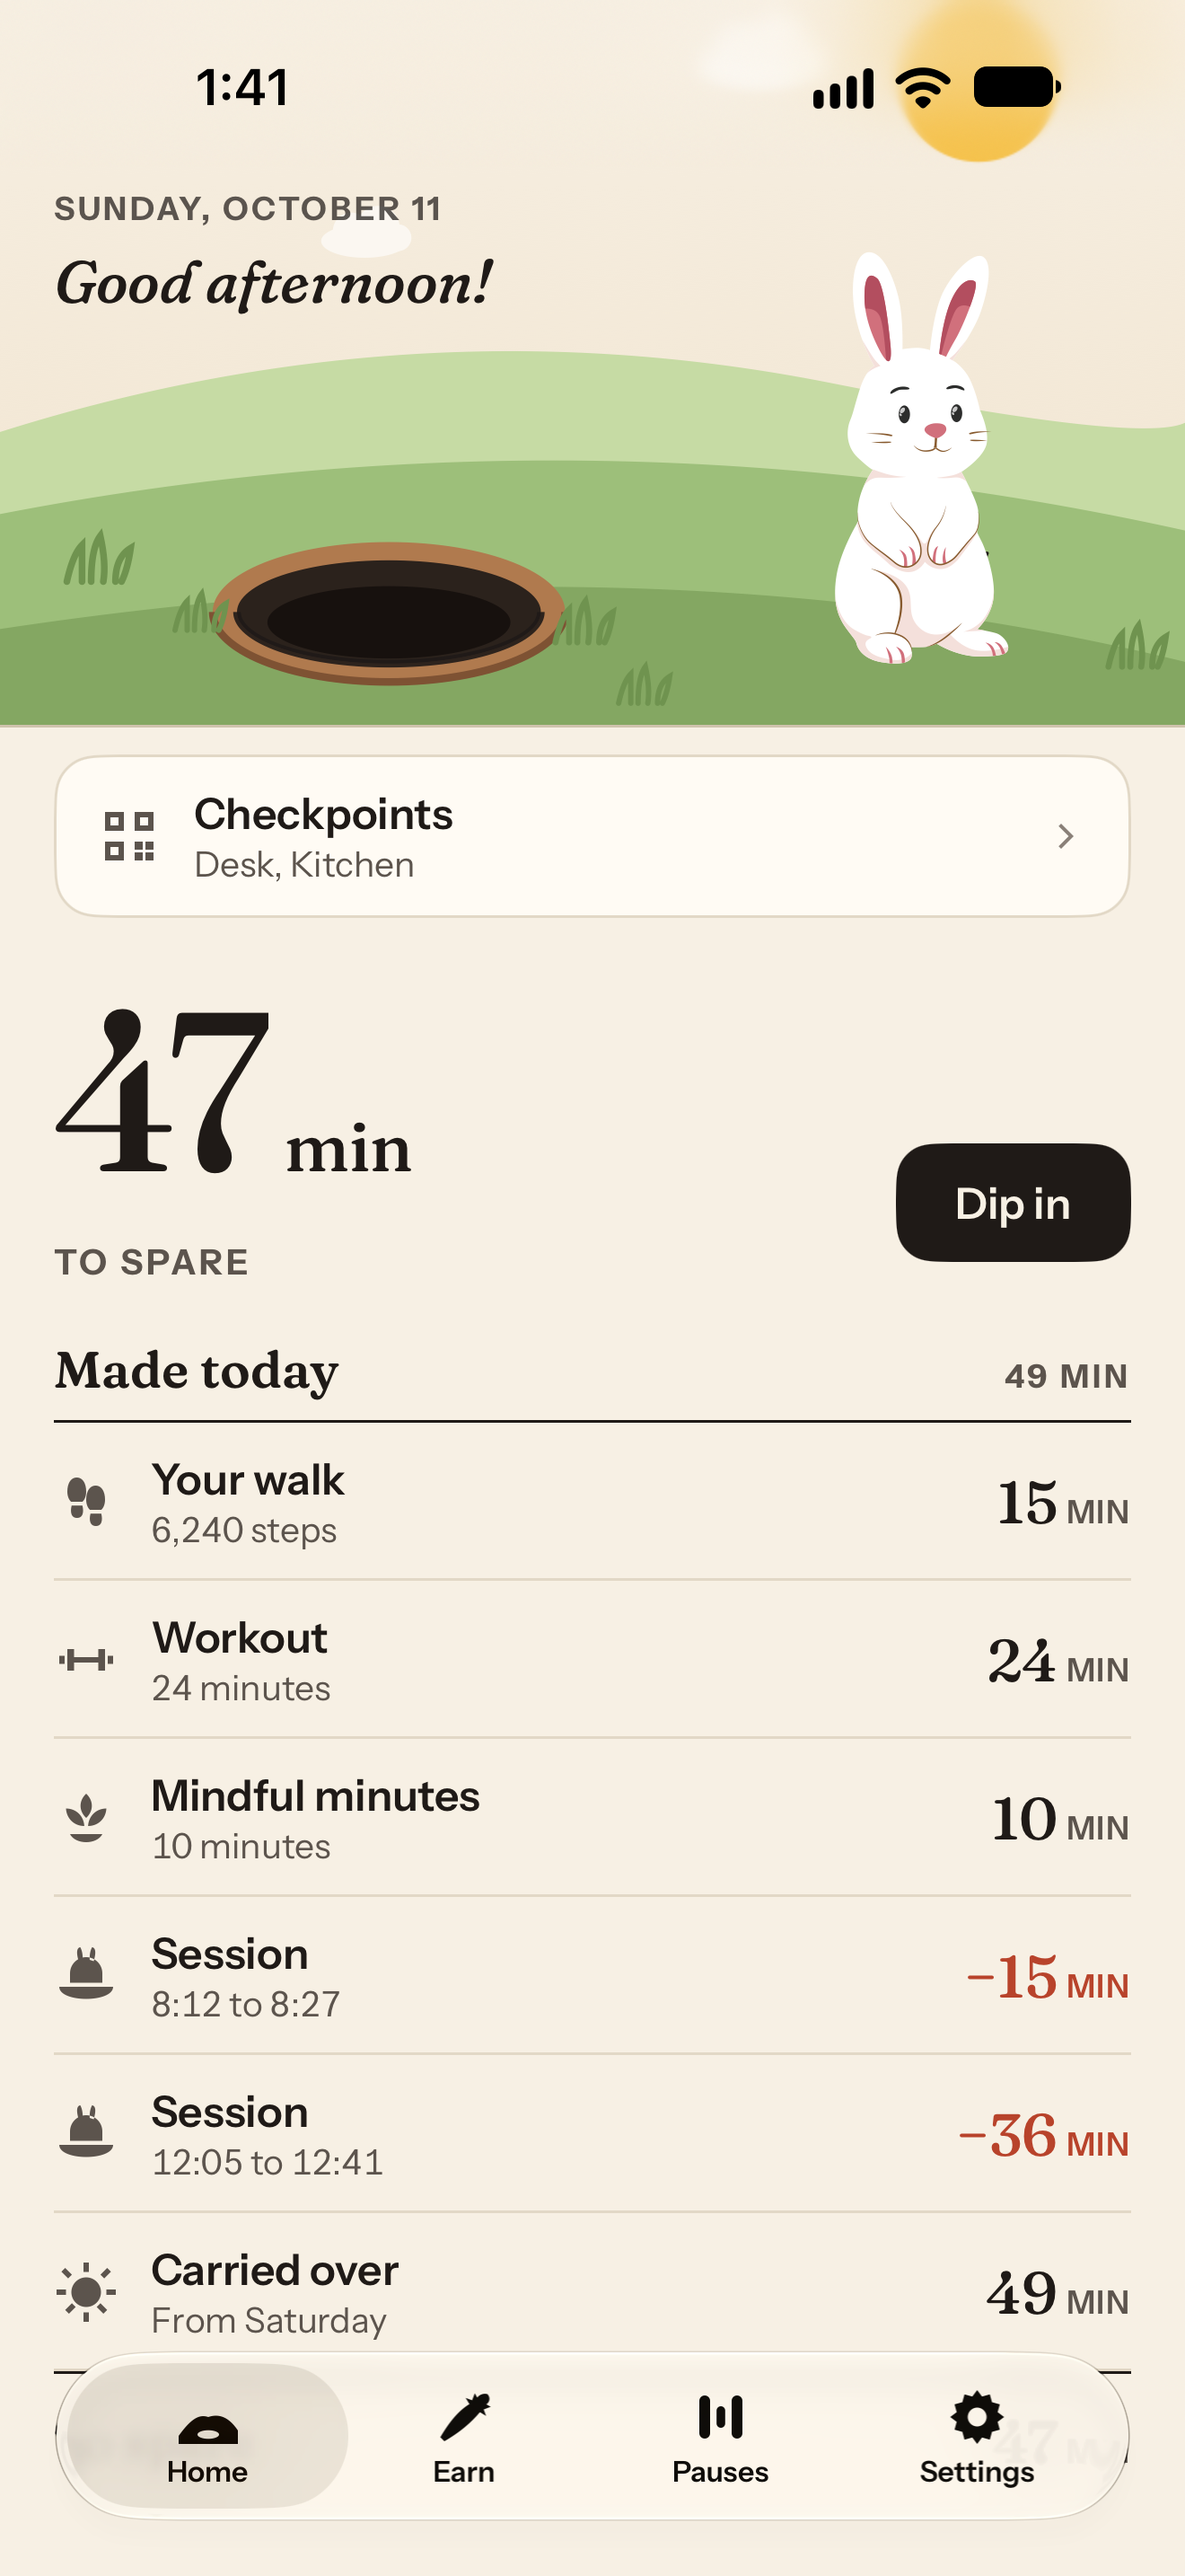
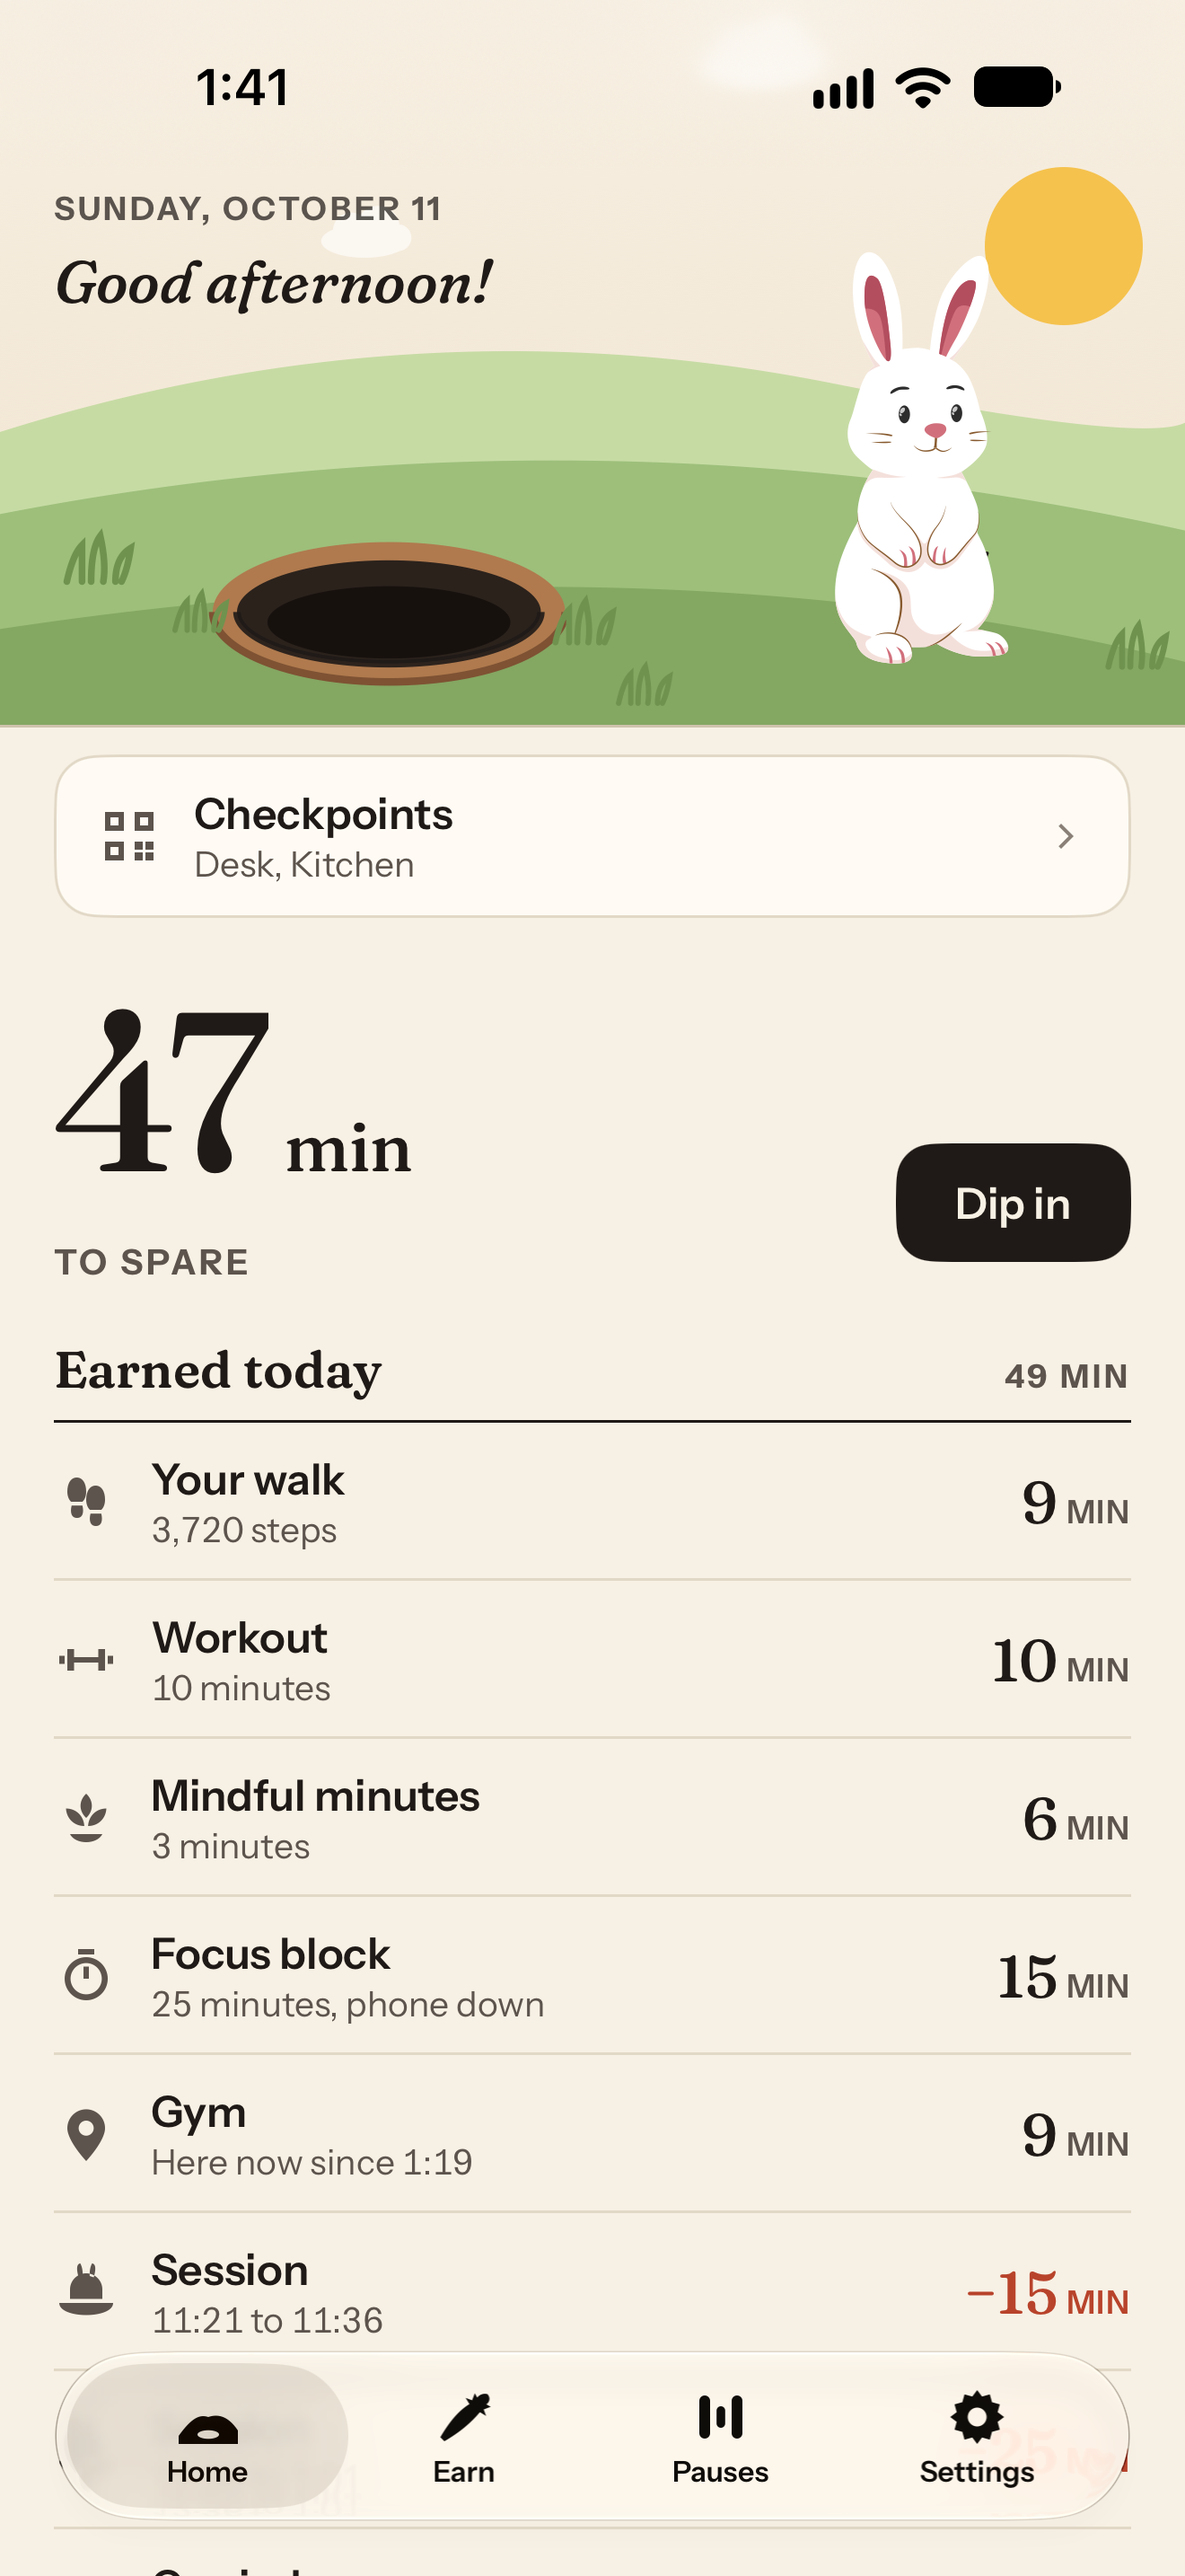
Use the new Premium screenshots, and match the Rabbit holes replica to the app.
The hero phone, the Earn panel, the limit panel and the social image now come from the marketing kit's capture of 2026-10-12 on Premium. The Earn panel is cut at 1320 by 2310 so that it still ends just below the Daily cap card, and the limit panel stays at 1320 by 1640. Every alt text follows the new pictures: the Home ledger with its walk, workout, mindful minutes, focus block, Gym and session, the Earn tab with all five ways on, and "Back up at 12:14".

The Rabbit holes replica now has the capture's measurements: the same status bar as the other panels, taller rows, separators that start at the row's text, the group titles inside the card's margin, and the app's padlock badge size.

diff --git a/src/data/site.ts b/src/data/site.ts
@@ -14,7 +14,7 @@
  * differences between Free and Premium appear only in the pricing cards; nowhere else says
  * "on Premium", "Free has" or "one way at a time". The screenshots show Up For Air Premium,
  * and `footer.screenshotNote` says so. The device is "iPhone and iPad", with iOS 18 or
- * iPadOS 18 or later. Some screenshots predate the "earned" wording, so take numbers and
+ * iPadOS 18 or later. The screenshots show the app's Debug mock day, so take numbers and
  * words from facts.md, not from the pictures.
  */
 
@@ -66,7 +66,7 @@ export const brand = {
     path: '/og.png',
     width: 1200,
     height: 630,
-    alt: 'Up For Air: “Everyone has a rabbit hole or two.” Up For Air locks yours and counts the minutes you earn up top. Beside the text, the app’s Home screen rises from a dark hillside and shows 47 min to spare.',
+    alt: 'Up For Air: “Everyone has a rabbit hole or two.” Up For Air locks yours and counts the minutes you earn up top. Beside the text, the app’s Home screen rises from a dark hillside and shows “Good afternoon!” and 47 min to spare.',
   },
 };
 
@@ -106,12 +106,11 @@ export const hero = {
   cta: brand.primaryCta,
   note: `Free ${brand.platformNote}`,
   /**
-   * The phone shows src/assets/screens/home-day-light.png, a simulator capture of Home.
-   * It was taken before minutes were "earned", so it still reads "Made today". The alt
-   * text describes the list without quoting that old heading.
+   * The phone shows src/assets/screens/home-day-light.png, the marketing kit's simulator
+   * capture of Home on Premium (2026-10-12), whole and uncropped.
    */
   screenAlt:
-    'Up For Air’s Home screen at 1:41 on Sunday, October 11. Under the greeting “Good afternoon!”, a white bunny stands beside its hole on green hills with the sun overhead. Below are a Checkpoints row listing Desk and Kitchen, 47 min to spare with a Dip in button, and today’s list totaling 49 min: your walk, 6,240 steps, 15 min; a workout of 24 minutes, 24 min; mindful minutes, 10 min; two sessions, 8:12 to 8:27 for −15 min and 12:05 to 12:41 for −36 min; and 49 min carried over from Saturday.',
+    'Up For Air’s Home screen at 1:41 on Sunday, October 11. Under the greeting “Good afternoon!”, a white bunny stands beside its hole on green hills with the sun overhead. Below are a Checkpoints row listing Desk and Kitchen, 47 min to spare with a Dip in button, and the Earned today list totaling 49 min: your walk, 3,720 steps, 9 min; a workout of 10 minutes, 10 min; mindful minutes, 3 minutes, 6 min; a focus block, 25 minutes with the phone down, 15 min; the Gym, here now since 1:19, 9 min; and a session from 11:21 to 11:36, −15 min.',
 };
 
 /** The strip under the hero: ledger lines, activity first, minutes second (default rates). */
@@ -345,16 +344,18 @@ export const features = {
       ],
     },
     /**
-     * src/assets/screens/earn-light-top.png: earn-light.png from the top down to the Daily cap.
-     * This capture is still the Free one (Zones reads "Part of Premium"), and the alt text
-     * describes it as it is. Rewrite the alt text when the Premium capture replaces it.
+     * src/assets/screens/earn-light-top.png: the kit's earn-light.png (the Premium capture,
+     * every way on) from the top down to the Daily cap, cut at 1320 × 2310.
      */
     earn: {
-      alt: 'The Earn tab at 9:41. The plate shows 49 min earned on Sunday beside the standing bunny. Walking (15 min), Workouts (24 min), and Mindful minutes (10 min) are switched on and labeled Enabled, Focus blocks is on and Enabled, and Zones is switched off, labeled “Part of Premium,” with a dimmed 14 min. A note says steps, workouts, and mindful minutes come from Apple Health, and under Limits the Daily cap is 60 min, “All ways together.”',
+      alt: 'The Earn tab at 9:41. The plate reads “Monday · Earned today, 49 min” beside the standing bunny, with a help button at the top right. All five ways are switched on and labeled Enabled: Walking (9 min), Workouts (10 min), Mindful minutes (6 min), Focus blocks (15 min), and Zones (9 min). A note says “Steps, workouts, and mindful minutes come from Apple Health. Tap a row to change its rate, or turn it off.” Under Limits, the Daily cap is 60 min, “All ways together, checkpoints included.”',
     },
-    /** src/assets/screens/unlock-limit-15-light-top.png: unlock-limit-15-light.png down to the note. */
+    /**
+     * src/assets/screens/unlock-limit-15-light-top.png: the kit's unlock-limit-15-light.png
+     * from the top down to the note, cut at 1320 × 1640.
+     */
     limit: {
-      alt: 'The screen that asks how long before you dip in. At the top are Never mind and “Your rabbit holes · 30 min to spare”. A large “15 min” sits over “Back up at 12:16”, then a slider from 1 to 30 and quick picks 5, 10, 15, and 30, with 15 selected, and the note “You only spend the minutes you use. Use all 15 and 15 min stay to spare.”',
+      alt: 'The screen that asks how long before you dip in, at 11:59. At the top are Never mind and “Your rabbit holes · 30 min to spare”. A large “15 min” sits over “Back up at 12:14”, then a slider from 1 to 30 and quick picks 5, 10, 15, and 30, with 15 selected, and the note “You only spend the minutes you use. Use all 15 and 15 min stay to spare.”',
     },
   },
 };

diff --git a/README.md b/README.md
@@ -33,7 +33,7 @@ Requires Node 22.12 or newer.
 | `src/layouts/Base.astro` | `<head>` (favicons, web manifest, Open Graph and Twitter tags with absolute URLs from `site`), header, footer, and the appear-on-scroll bootstrap. |
 | `src/components/` | One component per landing-page section, each with its own scoped CSS and script. |
 | `src/components/icons/` | The bunny mark (the app's head-out mark as four ellipses, the favicon's geometry), the Apple glyph, a check, and `Pictograms.astro`, a sprite of the app's 32 pictograms (path for path the same as the app's). |
-| `src/assets/screens/` | Simulator captures from the marketing kit, served through `astro:assets` as WebP at several widths: `home-day-light.png` (the hero phone), and two crops taken from the top of a capture, `earn-light-top.png` (down to the Daily cap) and `unlock-limit-15-light-top.png` (down to the note under the quick picks). |
+| `src/assets/screens/` | Simulator captures from the marketing kit (the 2026-10-12 capture, on Premium), served through `astro:assets` as WebP at several widths: `home-day-light.png` (the hero phone, whole), and two crops taken from the top of a capture with no other change, `earn-light-top.png` (1320 × 2310, down to the Daily cap) and `unlock-limit-15-light-top.png` (1320 × 1640, down to the note under the quick picks). |
 | `src/assets/art/` | The app's current art, copied by name from `design/up-for-air/reference/assets/` in the app repo: plates, bunny poses, scenes, tiles, marks, icons and the checkpoint card. The bunny is Vecteezy stock art and the landscapes are generated; all of it is placeholder art until the illustrator's work lands. |
 | `public/` | `favicon.svg` and `favicon-32.png` (a simplified mark with no stock art), `apple-touch-icon.png`, `icon-192.png` and `icon-512.png` (listed in `site.webmanifest`), `og.png` (the 1200 × 630 social image), and `fonts/`: Fraunces and Instrument Sans (variable, latin subset, SIL OFL), subsetted from the files the app bundles. |
 | `src/pages/` | `index`, `help` and `404`. |
@@ -67,8 +67,8 @@ says "Free on the App Store".
 - Check prices against App Store Connect: the site shows $6.99 a month, $44.99 a year (shown as $3.75 a month and "Save 46%"), and a 21-day trial on yearly only. These come from the app's local StoreKit file.
 - Make sure the trial reminder ships. The site says that the app reminds you before the free trial ends (`pricing`, the FAQ and the help page), and it names no number of days, because the trial length can change. The trial length and the prices are one constant each at the top of `site.ts`.
 - The site says "iPhone and iPad" and "iOS 18 or iPadOS 18 or later" (Luke, 2026-10-11). An iPad cannot read NFC, so the help page says that checkpoint tags need an iPhone and that a printed card works on both. Test the app on an iPad before launch.
-- Keep every screenshot on a Premium account. The site describes every feature as part of the app, keeps the differences between Free and Premium in the pricing cards, and says "Screenshots show Up For Air Premium." in the footer (`footer.screenshotNote`). The Earn capture is still a Free one (Zones reads "Part of Premium"), so replace it with a Premium capture and rewrite its alt text.
+- Keep every screenshot on a Premium account. The site describes every feature as part of the app, keeps the differences between Free and Premium in the pricing cards, and says "Screenshots show Up For Air Premium." in the footer (`footer.screenshotNote`). Every capture on the site is a Premium one, including the Earn tab with all five ways on.
 - Confirm the Vecteezy licence for the stock bunnies (file 59868990). Under the Free licence the footer credit ("Bunny illustrations from Vecteezy.com", `footer.artCredit`) must stay; under the Pro licence it may go.
 - Swap the placeholder artwork in `src/assets/art/` for the illustrator's files (same names, same viewBoxes), then remove `footer.artNote` and, if no stock art is left, `footer.artCredit`.
-- Retake the screenshots once the build has the current wording. The captures predate the "earned" copy, so Home still reads "Made today" and the Earn plate "Sunday · Made today". Replace `home-day-light.png`, `earn-light-top.png` and `unlock-limit-15-light-top.png` with the same names (the crops are cut from the top of the capture with no other change), update the alt text in `site.ts`, and render `public/og.png` again from the kit if Home changed.
+- When the app's screens change, take the new captures from the kit with the same names: copy `home-day-light.png` whole, cut `earn-light-top.png` and `unlock-limit-15-light-top.png` from the top of their captures (check that each crop still ends just below its card or note), copy the kit's `og/upforair-og.png` over `public/og.png`, and update the alt text in `site.ts` from the kit's README. The pictures show the app's Debug mock day, which says Sunday on Home and Monday on Earn; the two never sit side by side.
 - Replace the Rabbit holes replica with a capture from a phone (the simulator cannot show locked apps), cropped the same way as the other two panels.
